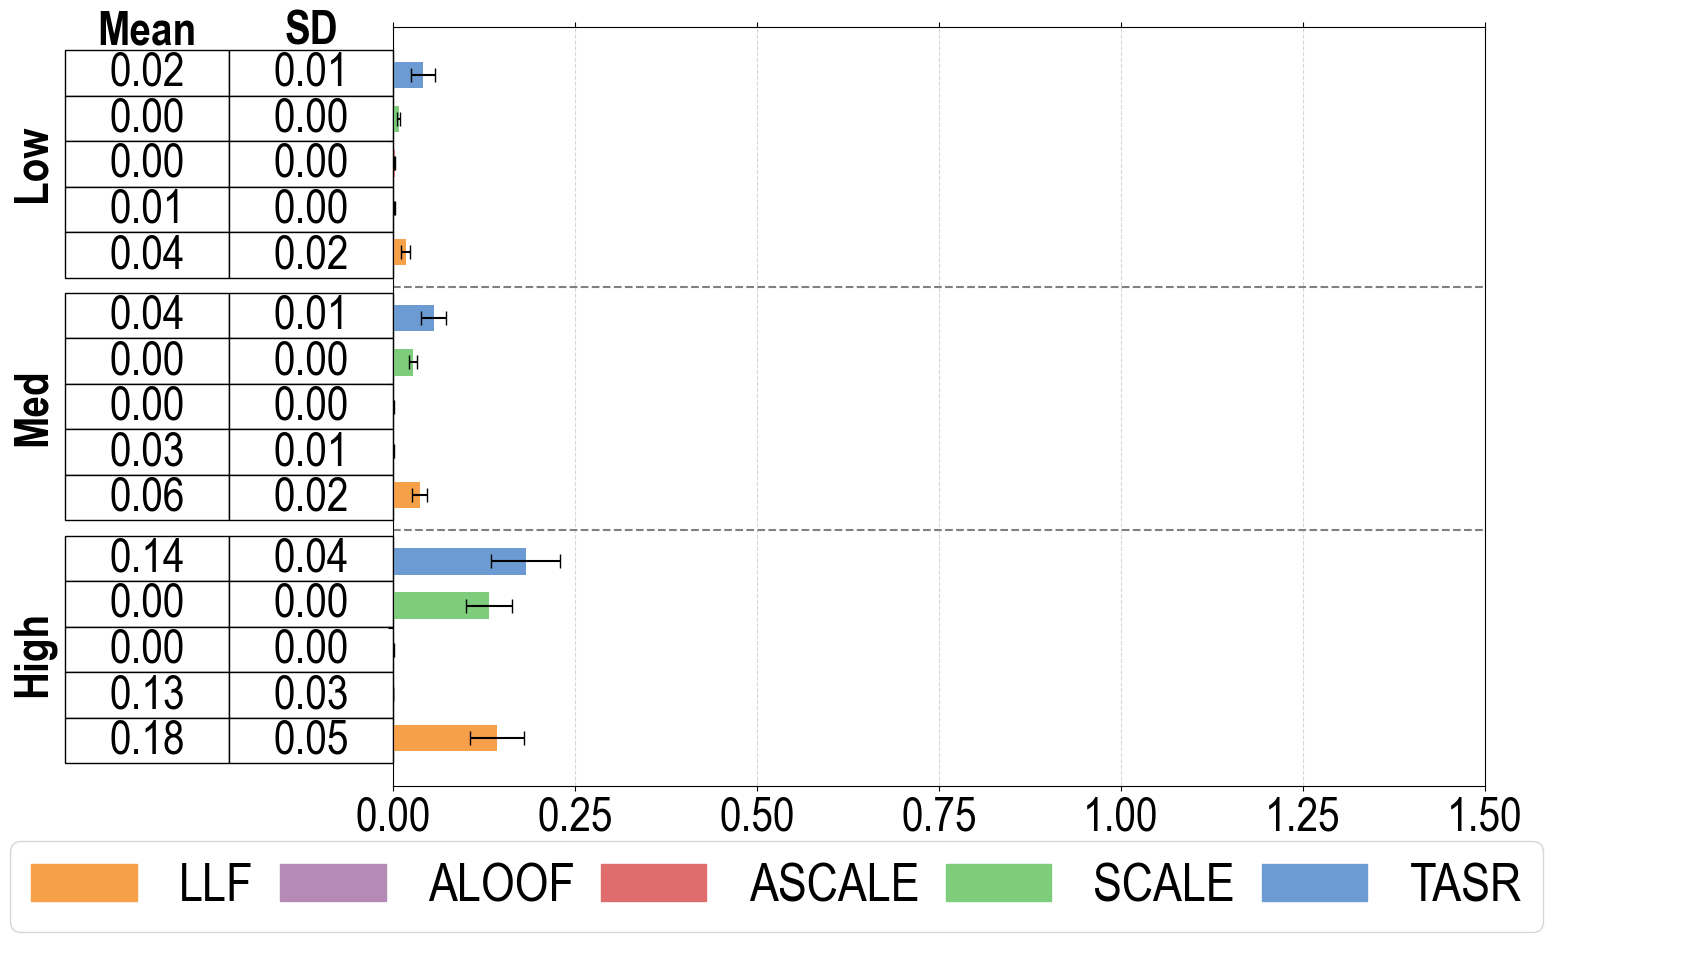
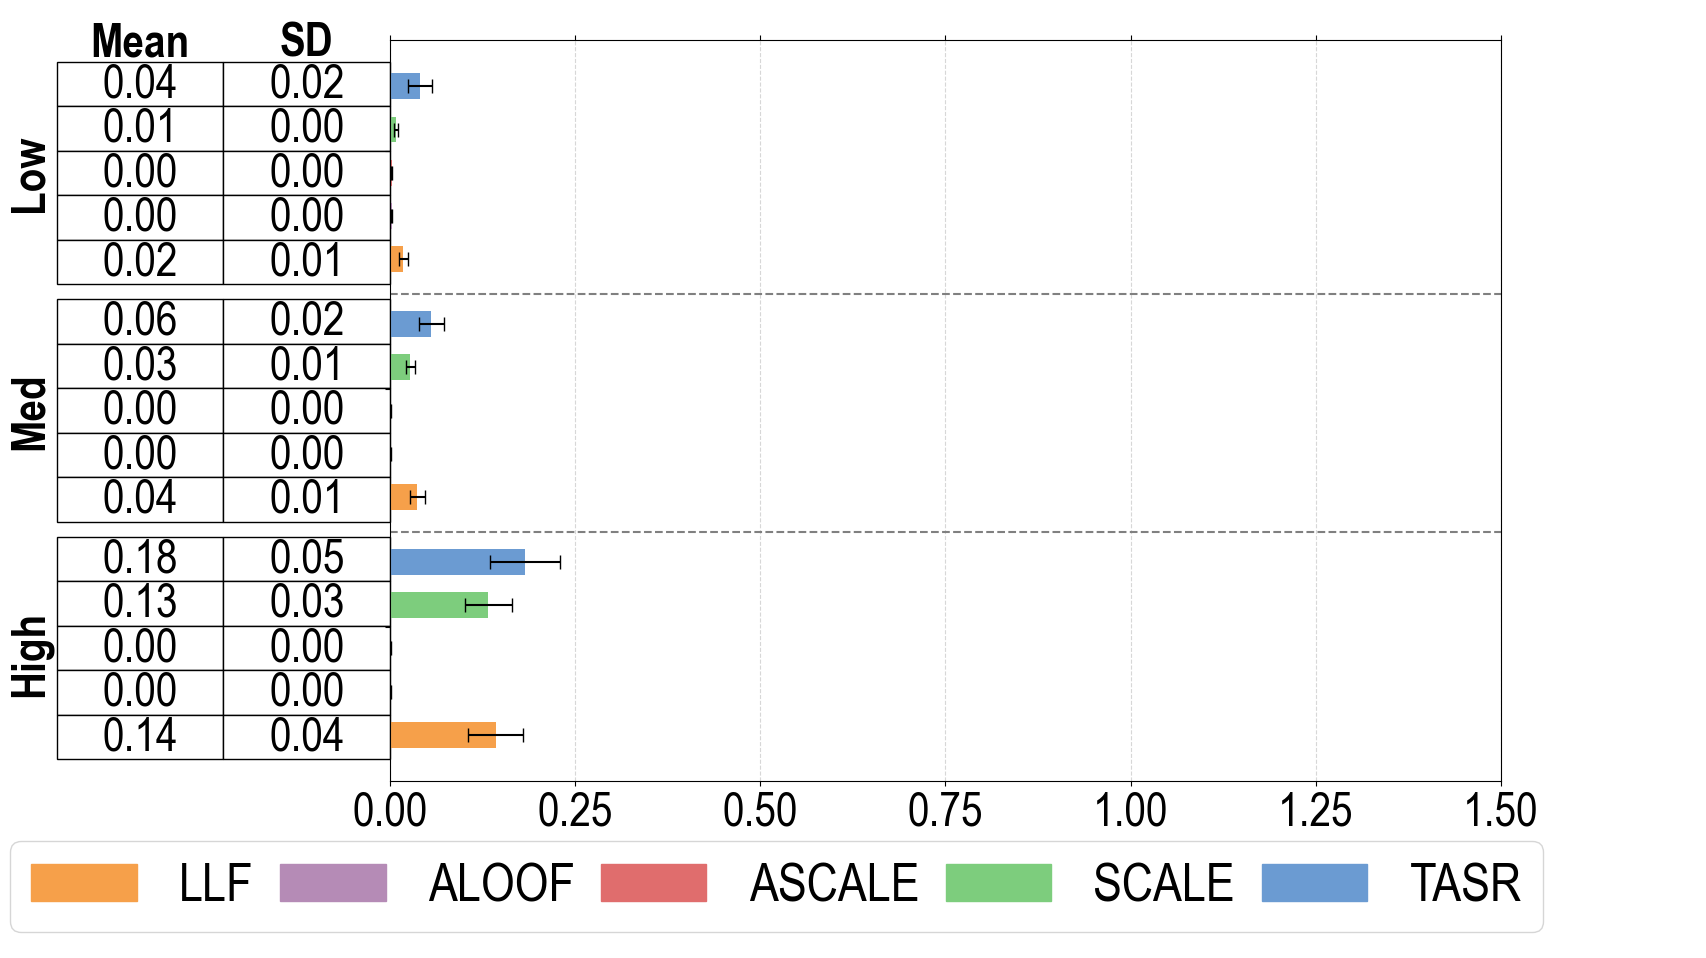
Updated Runtime Plots

diff --git a/Plotting_Files/Single-Commodity/Runtimes/plot_sc_results_cs_runtime.py b/Plotting_Files/Single-Commodity/Runtimes/plot_sc_results_cs_runtime.py
@@ -1,6 +1,6 @@
 #File: plot_sc_results_cs_runtime_table.py
 #Purpose: Plots single-commodity average runtime and standard deviations for 
-#the Chicago Sketch network under low, medium, and high demand levels. Includes table.
+#the Chicago Sketch network under low, medium, and high demand levels.
 
 import matplotlib.pyplot as plt
 import numpy as np
@@ -115,46 +115,6 @@ sd_row = [
     ','.join([f"{value:.2f}" for value in std_cs_med]),
     ','.join([f"{value:.2f}" for value in std_cs_high])
 ]
-
-rows = ["RT", "SD"]
-plt.subplots_adjust(bottom=0.3)
-
-table_data = [mean_row, sd_row]
-
-table = plt.table(cellText=table_data,
-                  rowLabels=rows,
-                  colLabels=columns,
-                  loc='bottom',
-                  cellLoc='center')
-
-table.auto_set_font_size(False)
-table.set_fontsize(10)
-table.scale(1, 1)
-
-for (i, col) in enumerate(table.get_celld()):
-    if i == 0 or i == 1 or i == 2:
-        table[(0, i)].set_fontsize(34) 
-
-column_widths = [group_width*0.8, group_width*0.8, group_width*0.8] 
-
-cellDict = table.get_celld()
-for x in range(1, len(rows)+1):
-    cellDict[(x,-1)].set_height(0.1)
-    cellDict[(x, -1)].set_fontsize(34) 
-
-for i in range(len(columns)):
-    table[(0, i)].set_height(0.1)
-
-for i in range(len(columns)):
-    table[(1, i)].set_height(0.1)
-
-for i in range(len(columns)):
-    table[(2, i)].set_height(0.1)
-
-
-for row in range(1, len(rows)+1):
-    for col in range(len(columns)):
-        cellDict[(row, col)].set_fontsize(36)
 
 plt.grid(axis='y', linestyle='--', alpha=0.5)
 ax.axhline(y=0, color='gray', linestyle='--', linewidth=1.5)

diff --git a/Plotting_Files/Single-Commodity/Runtimes/plot_sc_results_sf_runtime.py b/Plotting_Files/Single-Commodity/Runtimes/plot_sc_results_sf_runtime.py
@@ -1,6 +1,6 @@
 #File: plot_sc_results_sf_runtime_table.py
 #Purpose: Plots single-commodity average runtime and standard deviations for 
-#the Sioux Falls network under low, medium, and high demand levels. Includes table.
+#the Sioux Falls network under low, medium, and high demand levels.
 
 import matplotlib.pyplot as plt
 import numpy as np
@@ -114,46 +114,6 @@ sd_row = [
     ','.join([f"{value:.2f}" for value in std_sf_med]),
     ','.join([f"{value:.2f}" for value in std_sf_high])
 ]
-
-rows = ["RT", "SD"]
-plt.subplots_adjust(bottom=0.3)
-
-table_data = [mean_row, sd_row]
-
-table = plt.table(cellText=table_data,
-                  rowLabels=rows,
-                  colLabels=columns,
-                  loc='bottom',
-                  cellLoc='center')
-
-table.auto_set_font_size(False)
-table.set_fontsize(10)
-table.scale(1, 1)
-
-for (i, col) in enumerate(table.get_celld()):
-    if i == 0 or i == 1 or i == 2:
-        table[(0, i)].set_fontsize(34) 
-
-column_widths = [group_width*0.8, group_width*0.8, group_width*0.8] 
-
-cellDict = table.get_celld()
-for x in range(1, len(rows)+1):
-    cellDict[(x,-1)].set_height(0.1)
-    cellDict[(x, -1)].set_fontsize(34) 
-
-for i in range(len(columns)):
-    table[(0, i)].set_height(0.1)
-
-for i in range(len(columns)):
-    table[(1, i)].set_height(0.1)
-
-for i in range(len(columns)):
-    table[(2, i)].set_height(0.1)
-
-
-for row in range(1, len(rows)+1):
-    for col in range(len(columns)):
-        cellDict[(row, col)].set_fontsize(36)
 
 plt.grid(axis='y', linestyle='--', alpha=0.5)
 ax.axhline(y=0, color='gray', linestyle='--', linewidth=1.5)

diff --git a/Plotting_Files/Single-Commodity/Runtimes/plot_sc_results_ana_runtime.py b/Plotting_Files/Single-Commodity/Runtimes/plot_sc_results_ana_runtime.py
@@ -1,6 +1,6 @@
 #File: plot_sc_results_ana_runtime_table.py
 #Purpose: Plots single-commodity average runtime and standard deviations for 
-#the Anaheim network under low, medium, and high demand levels. Includes table.
+#the Anaheim network under low, medium, and high demand levels.
 
 import matplotlib.pyplot as plt
 import numpy as np
@@ -112,46 +112,6 @@ sd_row = [
     ','.join([f"{value:.2f}" for value in std_ana_med]),
     ','.join([f"{value:.2f}" for value in std_ana_high])
 ]
-
-rows = ["RT", "SD"]
-plt.subplots_adjust(bottom=0.3)
-
-table_data = [mean_row, sd_row]
-
-table = plt.table(cellText=table_data,
-                  rowLabels=rows,
-                  colLabels=columns,
-                  loc='bottom',
-                  cellLoc='center')
-
-table.auto_set_font_size(False)
-table.set_fontsize(10)
-table.scale(1, 1)
-
-for (i, col) in enumerate(table.get_celld()):
-    if i == 0 or i == 1 or i == 2:
-        table[(0, i)].set_fontsize(34) 
-
-column_widths = [group_width*0.8, group_width*0.8, group_width*0.8] 
-
-cellDict = table.get_celld()
-for x in range(1, len(rows)+1):
-    cellDict[(x,-1)].set_height(0.1)
-    cellDict[(x, -1)].set_fontsize(34) 
-
-for i in range(len(columns)):
-    table[(0, i)].set_height(0.1)
-
-for i in range(len(columns)):
-    table[(1, i)].set_height(0.1)
-
-for i in range(len(columns)):
-    table[(2, i)].set_height(0.1)
-
-
-for row in range(1, len(rows)+1):
-    for col in range(len(columns)):
-        cellDict[(row, col)].set_fontsize(36)
 
 plt.grid(axis='y', linestyle='--', alpha=0.5)
 ax.axhline(y=0, color='gray', linestyle='--', linewidth=1.5)

diff --git a/Plotting_Files/Single-Commodity/Runtimes/plot_sc_results_aus_runtime.py b/Plotting_Files/Single-Commodity/Runtimes/plot_sc_results_aus_runtime.py
@@ -1,6 +1,6 @@
 #File: plot_sc_results_aus_runtime_table.py
 #Purpose: Plots single-commodity average runtime and standard deviations for 
-#the Austin network under low, medium, and high demand levels. Includes table.
+#the Austin network under low, medium, and high demand levels.
 
 import matplotlib.pyplot as plt
 import numpy as np
@@ -114,46 +114,6 @@ sd_row = [
     ','.join([f"{value:.2f}" for value in std_aus_med]),
     ','.join([f"{value:.2f}" for value in std_aus_high])
 ]
-
-rows = ["RT", "SD"]
-plt.subplots_adjust(bottom=0.3)
-
-table_data = [mean_row, sd_row]
-
-table = plt.table(cellText=table_data,
-                  rowLabels=rows,
-                  colLabels=columns,
-                  loc='bottom',
-                  cellLoc='center')
-
-table.auto_set_font_size(False)
-table.set_fontsize(10)
-table.scale(1, 1)
-
-for (i, col) in enumerate(table.get_celld()):
-    if i == 0 or i == 1 or i == 2:
-        table[(0, i)].set_fontsize(34) 
-
-column_widths = [group_width*0.8, group_width*0.8, group_width*0.8] 
-
-cellDict = table.get_celld()
-for x in range(1, len(rows)+1):
-    cellDict[(x,-1)].set_height(0.1)
-    cellDict[(x, -1)].set_fontsize(34) 
-
-for i in range(len(columns)):
-    table[(0, i)].set_height(0.1)
-
-for i in range(len(columns)):
-    table[(1, i)].set_height(0.1)
-
-for i in range(len(columns)):
-    table[(2, i)].set_height(0.1)
-
-
-for row in range(1, len(rows)+1):
-    for col in range(len(columns)):
-        cellDict[(row, col)].set_fontsize(36)
 
 plt.grid(axis='y', linestyle='--', alpha=0.5)
 ax.axhline(y=0, color='gray', linestyle='--', linewidth=1.5)

diff --git a/Plotting_Files/Single-Commodity/Runtimes/plot_sc_results_pig_runtime.py b/Plotting_Files/Single-Commodity/Runtimes/plot_sc_results_pig_runtime.py
@@ -1,6 +1,6 @@
 #File: plot_sc_results_pig_runtime_table.py
 #Purpose: Plots single-commodity average runtime and standard deviations for 
-#the Pigou network under low, medium, and high demand levels. Includes table.
+#the Pigou network under low, medium, and high demand levels.
 
 import matplotlib.pyplot as plt
 import numpy as np
@@ -115,46 +115,6 @@ sd_row = [
     ','.join([f"{value:.2f}" for value in std_pig_med]),
     ','.join([f"{value:.2f}" for value in std_pig_high])
 ]
-
-rows = ["RT", "SD"]
-plt.subplots_adjust(bottom=0.3)
-
-table_data = [mean_row, sd_row]
-
-table = plt.table(cellText=table_data,
-                  rowLabels=rows,
-                  colLabels=columns,
-                  loc='bottom',
-                  cellLoc='center')
-
-table.auto_set_font_size(False)
-table.set_fontsize(10)
-table.scale(1, 1)
-
-for (i, col) in enumerate(table.get_celld()):
-    if i == 0 or i == 1 or i == 2:
-        table[(0, i)].set_fontsize(34) 
-
-column_widths = [group_width*0.8, group_width*0.8, group_width*0.8] 
-
-cellDict = table.get_celld()
-for x in range(1, len(rows)+1):
-    cellDict[(x,-1)].set_height(0.1)
-    cellDict[(x, -1)].set_fontsize(34) 
-
-for i in range(len(columns)):
-    table[(0, i)].set_height(0.1)
-
-for i in range(len(columns)):
-    table[(1, i)].set_height(0.1)
-
-for i in range(len(columns)):
-    table[(2, i)].set_height(0.1)
-
-
-for row in range(1, len(rows)+1):
-    for col in range(len(columns)):
-        cellDict[(row, col)].set_fontsize(36)
 
 plt.grid(axis='y', linestyle='--', alpha=0.5)
 ax.axhline(y=0, color='gray', linestyle='--', linewidth=1.5)
